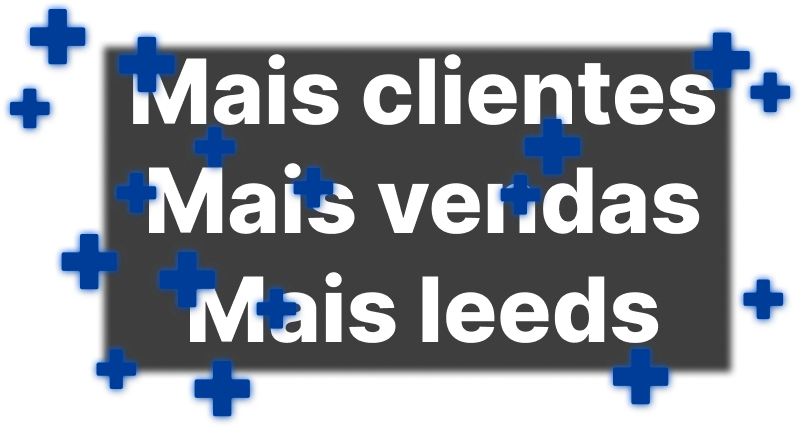
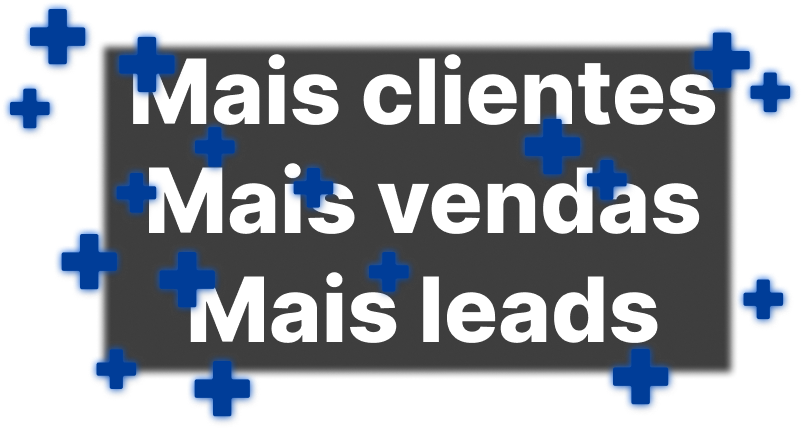
Correções ortográficas

diff --git a/src/app/sections/ServicesSection/data.ts b/src/app/sections/ServicesSection/data.ts
@@ -29,7 +29,7 @@ export const packages = [
     {
         title: "Pacote Premium",
         list: [
-            "Paginas ilimitadas",
+            "Páginas ilimitadas",
             "Formulário para e-mail",
             "Depoimentos de clientes",
             "Novas páginas incluídas",
@@ -46,13 +46,13 @@ export const carouselData = [
         title: "Tenha seu Brand Site",
         list: [ "Profissionalize sua marca perante o mercado com um site por meio de Branding e reforço da sua identidade.",
               "90% dos consumidores escolhem uma marca somente depois de pesquisarem sobre ela no Google.(SEO Hedgehog Digital)",
-              "Personalize seus CTC(chamadas de engajamento) e crie leeds da maneira mais adequada para o seu perfil de cliente.",
+              "Personalize seus CTC(chamadas de engajamento) e crie leads da maneira mais adequada para o seu perfil de cliente.",
               "Melhor meio para conseguir o email de forma não invasiva. Email é quase 40x melhor na aquisição de clientes que Facebook e Twitter.(McKinsey & Company)",]
     }, {
         title: "Aprenda a usar WhatsApp Business",
-        list: [ "Otimize e personalize seu atendimento e de a melhor experiência para seus clientes",
-            "48% do consumidores elegeram o bate-papo ao vivo como WhastApp como o primeiro canal para solicitar assistência.(Capterra);",
-            "Na black friday de 2020 o grupo ViaVrejo (Casas Bahia, ponto frio, Extra) mais de 20% do faturamento deles (2bi) foi pelo whatsapp",
+        list: [ "Otimize e personalize seu atendimento e dê a melhor experiência para seus clientes",
+            "48% dos consumidores elegeram o bate-papo ao vivo como WhatsApp como o primeiro canal para solicitar assistência.(Capterra);",
+            "Na black friday de 2020 o grupo ViaVarejo (Casas Bahia, Ponto Frio, Extra) teve mais de 20% de seu faturamento (2bi) pelo WhatsApp",
             "Coloque mensagens automáticas de saudação, ausência, respostas rápidas.",]
     }, {
         title: "Sua empresa no Google",